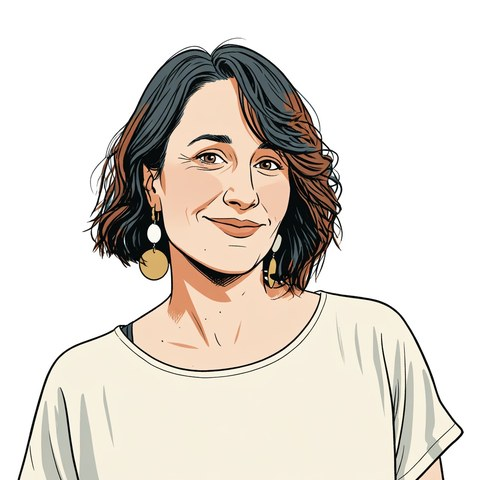
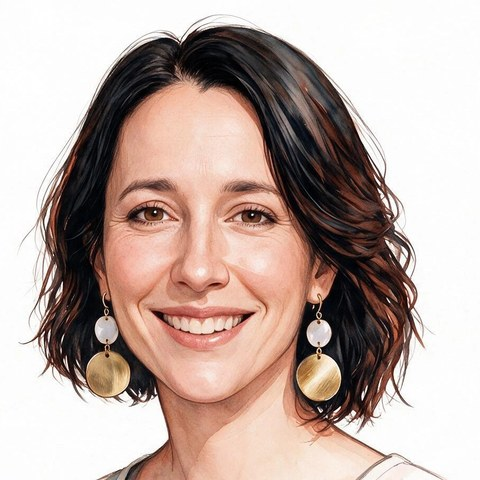
Use the new illustrated portrait of Anna on the book page
Swaps the circle in the "A word from the organizer" section for a
crop of the headshot panel from the October character sheet, on
/book and its Spanish mirror /es/libro. Adds a version query to the
image src so returning visitors don't get the old one from cache.

diff --git a/es/libro.html b/es/libro.html
@@ -476,7 +476,7 @@
   <section class="section section--sm" style="background: #fff;">
     <div class="container">
       <div class="bk-author fade-in">
-        <img src="/anna-comic.jpg" alt="Anna Milaeva, autora de La reuni&oacute;n ya empez&oacute;, retrato ilustrado" class="bk-author__photo">
+        <img src="/anna-comic.jpg?v=2" alt="Anna Milaeva, autora de La reuni&oacute;n ya empez&oacute;, retrato ilustrado" class="bk-author__photo">
         <div class="bk-author__bubble">
           <p>"Dirig&iacute; operaciones durante m&aacute;s de una d&eacute;cada. Estuve en estas reuniones. Tambi&eacute;n estuve en las otras, las que corr&iacute;an por dentro. Esta historia es lo que pas&oacute; cuando por fin fui a las dos."</p>
           <span class="bk-author__attr">Anna, la organizadora. Todas sus partes aprobaron este mensaje.</span>

diff --git a/book.html b/book.html
@@ -473,7 +473,7 @@
   <section class="section section--sm" style="background: #fff;">
     <div class="container">
       <div class="bk-author fade-in">
-        <img src="anna-comic.jpg" alt="Anna Milaeva, author of Already In A Meeting, illustrated portrait" class="bk-author__photo">
+        <img src="anna-comic.jpg?v=2" alt="Anna Milaeva, author of Already In A Meeting, illustrated portrait" class="bk-author__photo">
         <div class="bk-author__bubble">
           <p>"I ran operations for over a decade. I was in these meetings. I was also in the other ones, the ones running inside me. This story is what happened when I finally attended both."</p>
           <span class="bk-author__attr">Anna, the organizer. All of her parts approved this message.</span>
